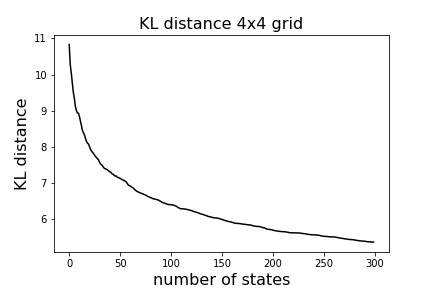
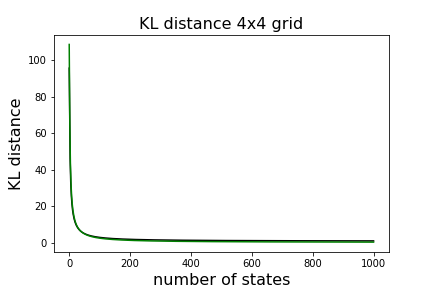
Add files via upload

diff --git a/main.py b/main.py
@@ -3,20 +3,20 @@
 #import modules
 import numpy as np
 import matplotlib.pyplot as plt
-from localupdate import LocalUpdater
 import time
+from localupdate import LocalUpdater
+from wolffupdate import WolffUpdater
+
 
 #global variables (temporary)
 J_factor = 1. #nearest-neighbor term factor
 K_factor = 0.2 #plaquette term factor
-size = 5 #size of state in 1D
+size = 3 #size of state in 1D
 chain_length = 1000 #number of states to generate
-T_start = 1000. #starting temperature
+T_start = 5000. #starting temperature
 KLplot = True #whether or not to calculate and plot KL distance
 if size>4: #do not calculate KL distance if larger than 4x4
     KLplot = False
-
-#use these if grid larger than 5
 
 #calculate spin correlation
 def spin_correlation(state):
@@ -72,7 +72,7 @@ def KLdistance(prob1, prob2):
 
 #calculate thermodynamic beta
 k_b = 8.617e-5 #Boltzmann constant in eV/K
-beta = k_b * T_start
+beta = 1/(k_b * T_start)
 
 
 #generate all possible states to compute KL distance
@@ -138,14 +138,44 @@ for n in range(chain_length):
 
 print(time.time()-start_time)
 
+#perform wolff update
+wolff = WolffUpdater(J_factor, beta)
+wolff_chain = []
+wolff_chain.append(initial_state)
+wolff_kls=[]
+
+start_time = time.time()
+for n in range(chain_length):
+    state = np.copy(wolff_chain[n])
+    
+    state = wolff.update(state)
+    wolff_chain.append(state)
+
+    #calculate KL distance
+    if KLplot:
+        #probability of generated states
+        gen_states, gen_freq = np.unique(wolff_chain, return_counts=True, axis=0) #unique states in chain
+        prob_gen = gen_freq.astype('float') / np.sum(gen_freq)
+        
+        #model probabilities        
+        e_lambdas = [np.exp(-beta*hamiltonian(s)) for s in gen_states]
+        p_lambdas = e_lambdas / z_lambda
+       
+        #calculate KL distance
+        kl = KLdistance(prob_gen, p_lambdas)
+        wolff_kls.append(kl)
+        
+print(time.time()-start_time)
+        
 
 if KLplot:
     plt.plot(np.arange(len(kls)), kls, 'k')
+    plt.plot(np.arange(len(wolff_kls)), wolff_kls, 'g')
     plt.xlabel('number of states', fontsize=16)
     plt.ylabel('KL distance', fontsize=16)
     plt.title('KL distance '+str(size)+'x'+str(size)+' grid', fontsize=16)
     plt.savefig('KLdistance'+str(size)+'x'+str(size))
-    
+
 
 
 '''
